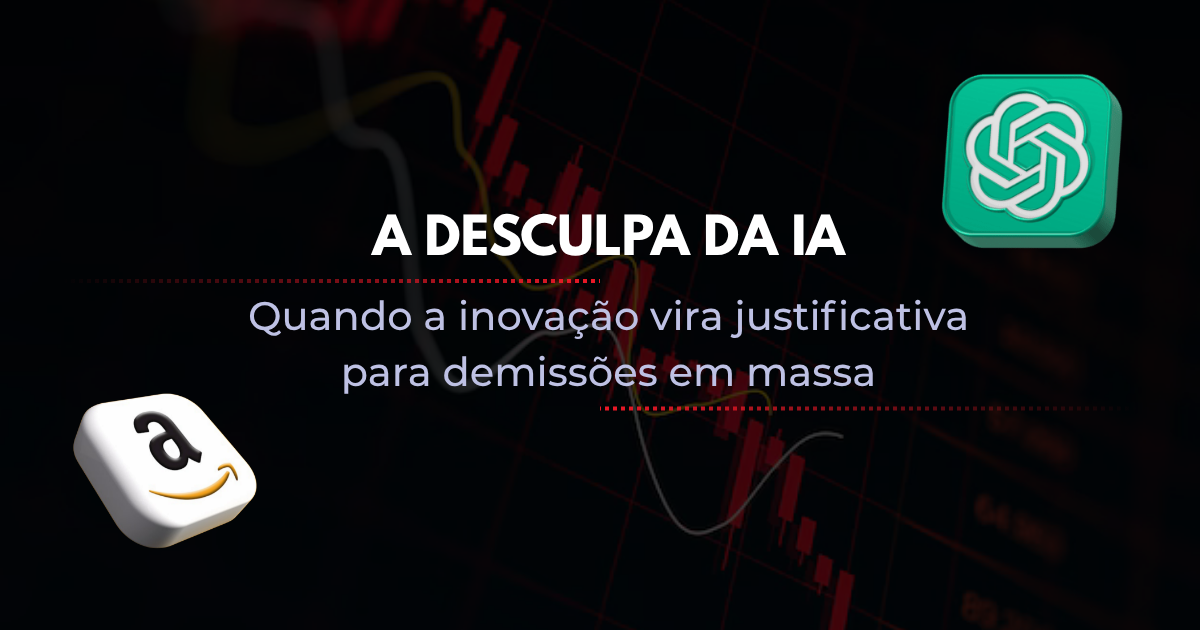
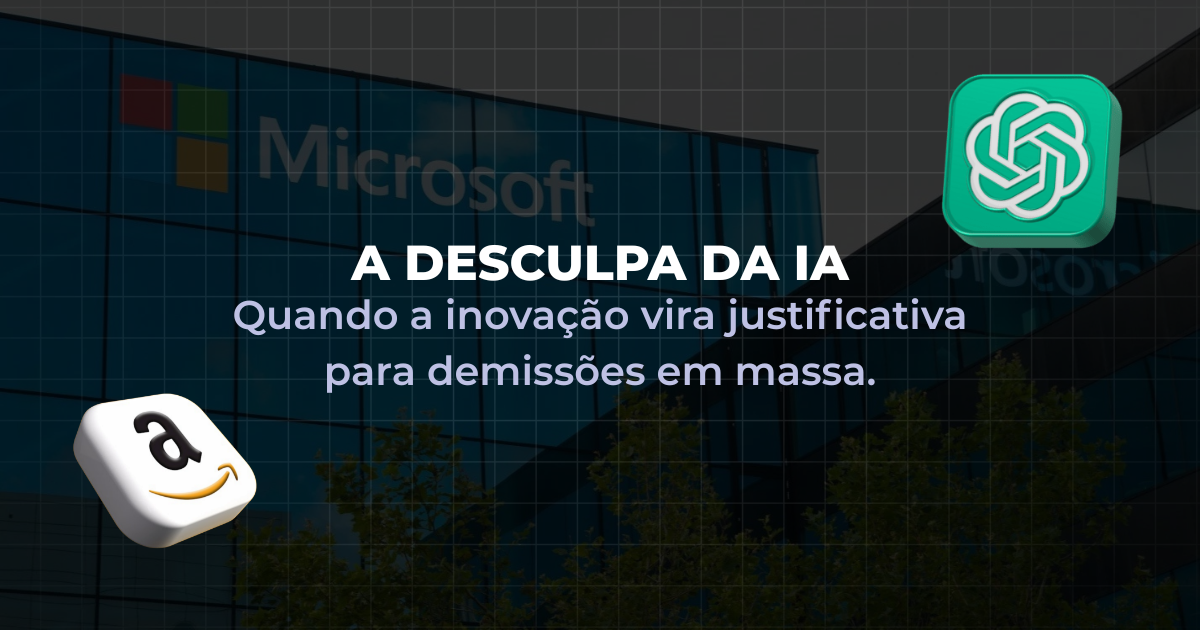
feat: enhance blog SEO assets and featured post teaser
Add new OG images for blog posts and the blog page.

Add metadata for the blog page to improve social sharing and SEO.

Apply minor component refinements for consistency and polish.

Improve the homepage blog announcement section with a responsive featured latest-post preview.

diff --git a/src/styles/components/form.css b/src/styles/components/form.css
@@ -8,7 +8,11 @@
 }
 
 .checkbox-label {
-    @apply px-4 py-2 border border-border text-xs text-muted-foreground font-semibold has-checked:bg-linear-to-r has-checked:from-chart-1 has-checked:to-chart-2 has-checked:text-white has-checked:border-transparent transition-all duration-200 uppercase rounded-lg cursor-pointer select-none;
+    @apply px-4 py-2 text-xs text-muted-foreground font-semibold 
+    ring-1 ring-border
+    has-checked:bg-linear-to-r has-checked:from-chart-1 has-checked:to-chart-2 
+    has-checked:text-white has-checked:ring-transparent
+    transition-all duration-200 uppercase rounded-lg cursor-pointer select-none;
 }
 
 .checkbox-input {

diff --git a/src/pages/blog/posts/a-desculpa-da-ia-quando-a-inovacao-vira-justificativa-para-demissoes-em-massa.md b/src/pages/blog/posts/a-desculpa-da-ia-quando-a-inovacao-vira-justificativa-para-demissoes-em-massa.md
@@ -7,8 +7,9 @@ author: "Kauã Cavalcante"
 publishedOn: "04/01/2026"
 readingTime: 20
 image:
-  url: "blog/post-2/a-desculpa-da-ia-banner.png"
-  alt: "Banner escuro com gráfico de queda ao fundo, ícones de IA e e-commerce nas laterais e o título “A desculpa da IA: quando a inovação vira justificativa para demissões em massa” centralizado em destaque."
+  banner: "blog/post-2/a-desculpa-da-ia-banner.png"
+  ogImage: "blog/post-2/a-desculpa-da-ia-og-image.png"
+  alt: "Imagem de capa do artigo 'A desculpa da IA', sobre como a inovação tecnológica é usada para justificar demissões em massa, com logos da Microsoft, ChatGPT e Amazon."
 tags: ["ia", "layoffs"]
 ---
 

diff --git a/src/pages/blog/posts/de-jekyll-ao-astro-a-evolucao-do-meu-portfolio-e-o-nascimento-do-meu-blog.md b/src/pages/blog/posts/de-jekyll-ao-astro-a-evolucao-do-meu-portfolio-e-o-nascimento-do-meu-blog.md
@@ -8,7 +8,8 @@ publishedOn: "03/07/2026"
 updatedOn: "03/18/2026"
 readingTime: 10
 image:
-  url: "blog/post-1/imagem-representativa.jpeg"
+  banner: "blog/post-1/de-jekyll-ao-astro-banner.png"
+  ogImage: "blog/post-1/de-jekyll-ao-astro-og-image.png"
   alt: "Um celular com o site do blog aberto. Ao fundo, um monitor com o site do portfólio aberto na tela inicial."
 tags: ["portfolio", "blog", "novo"]
 ---
